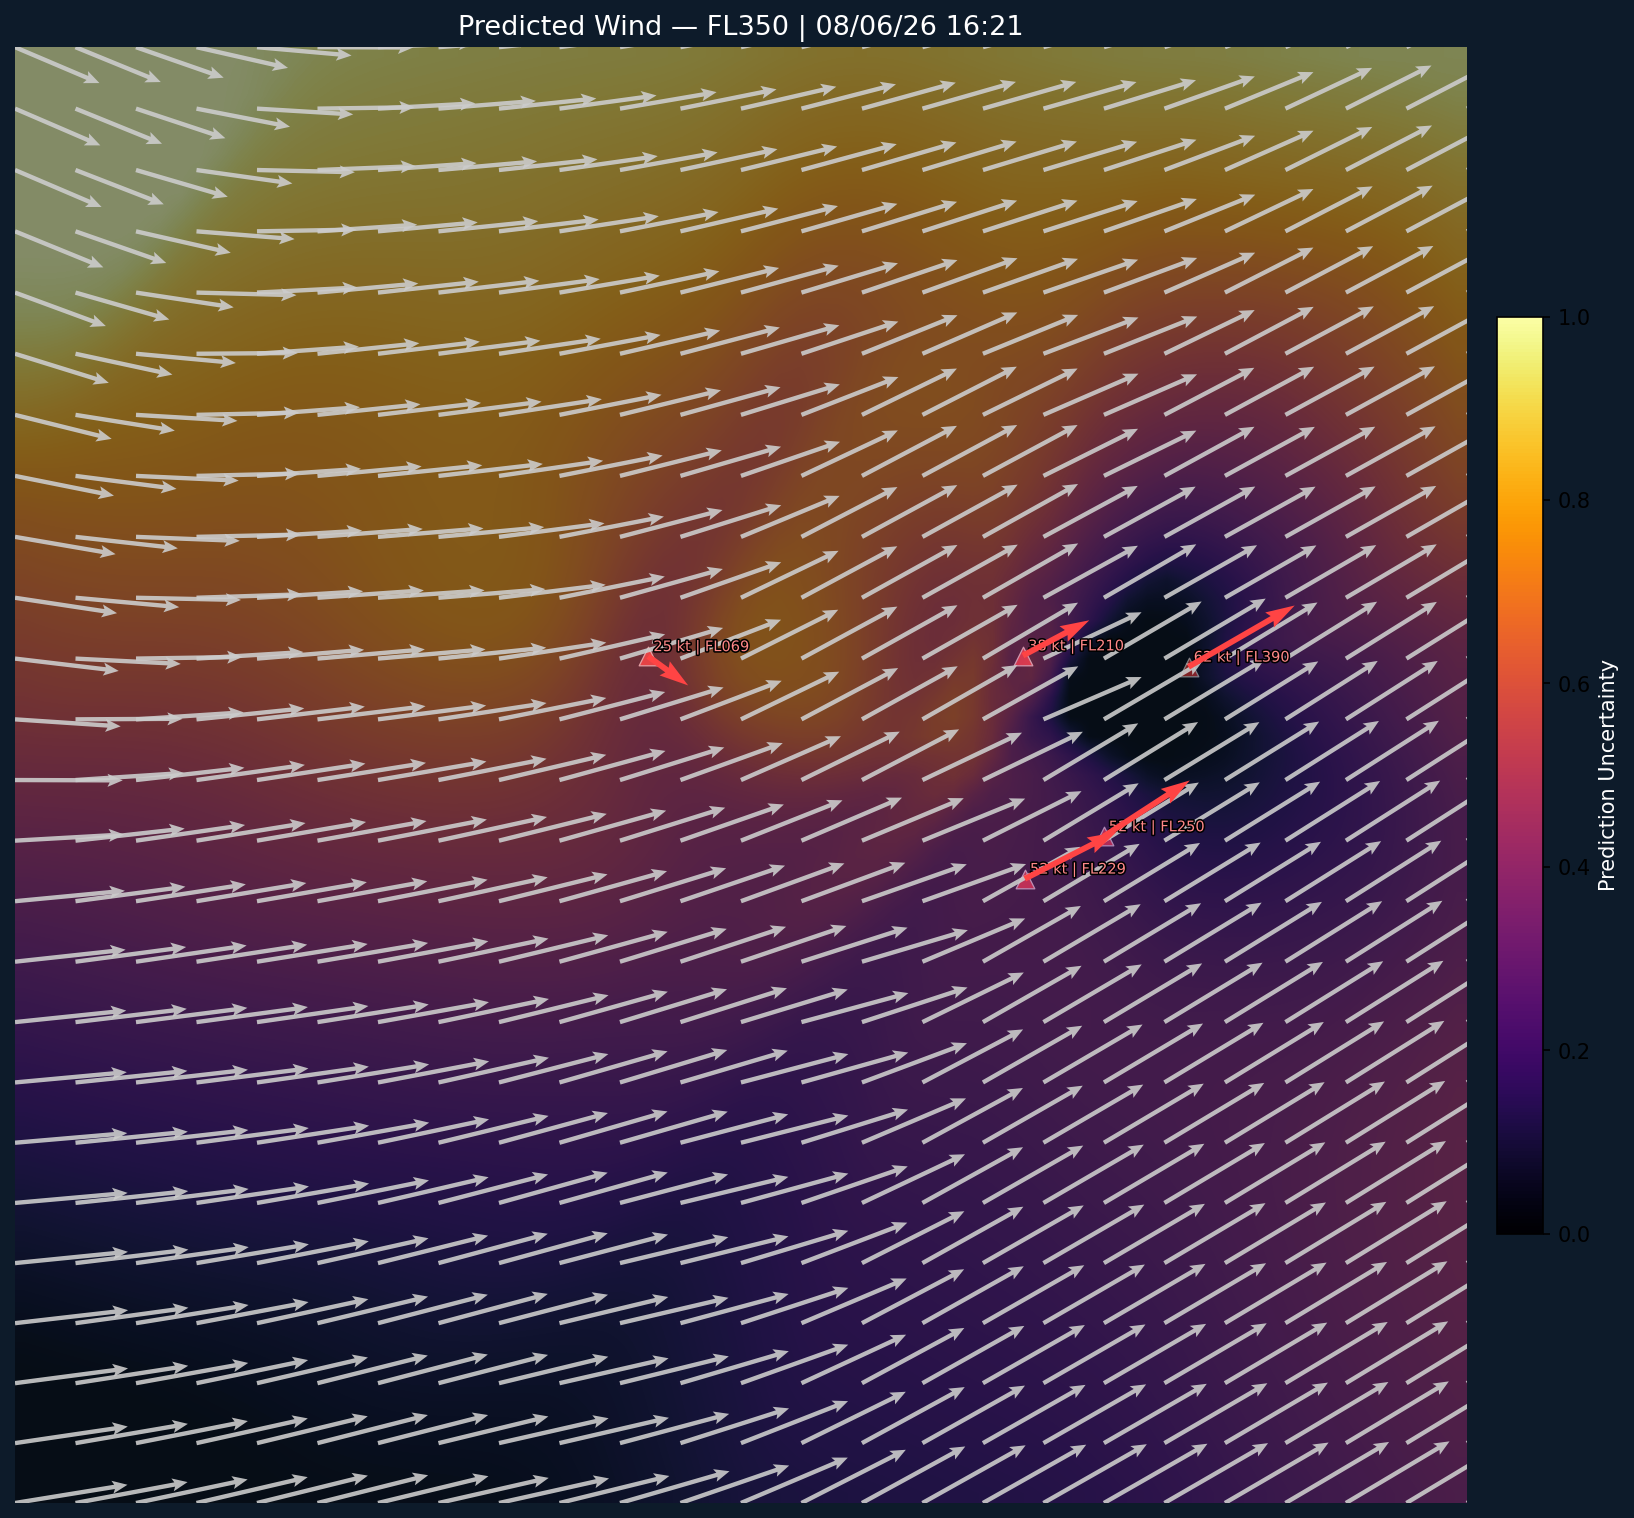
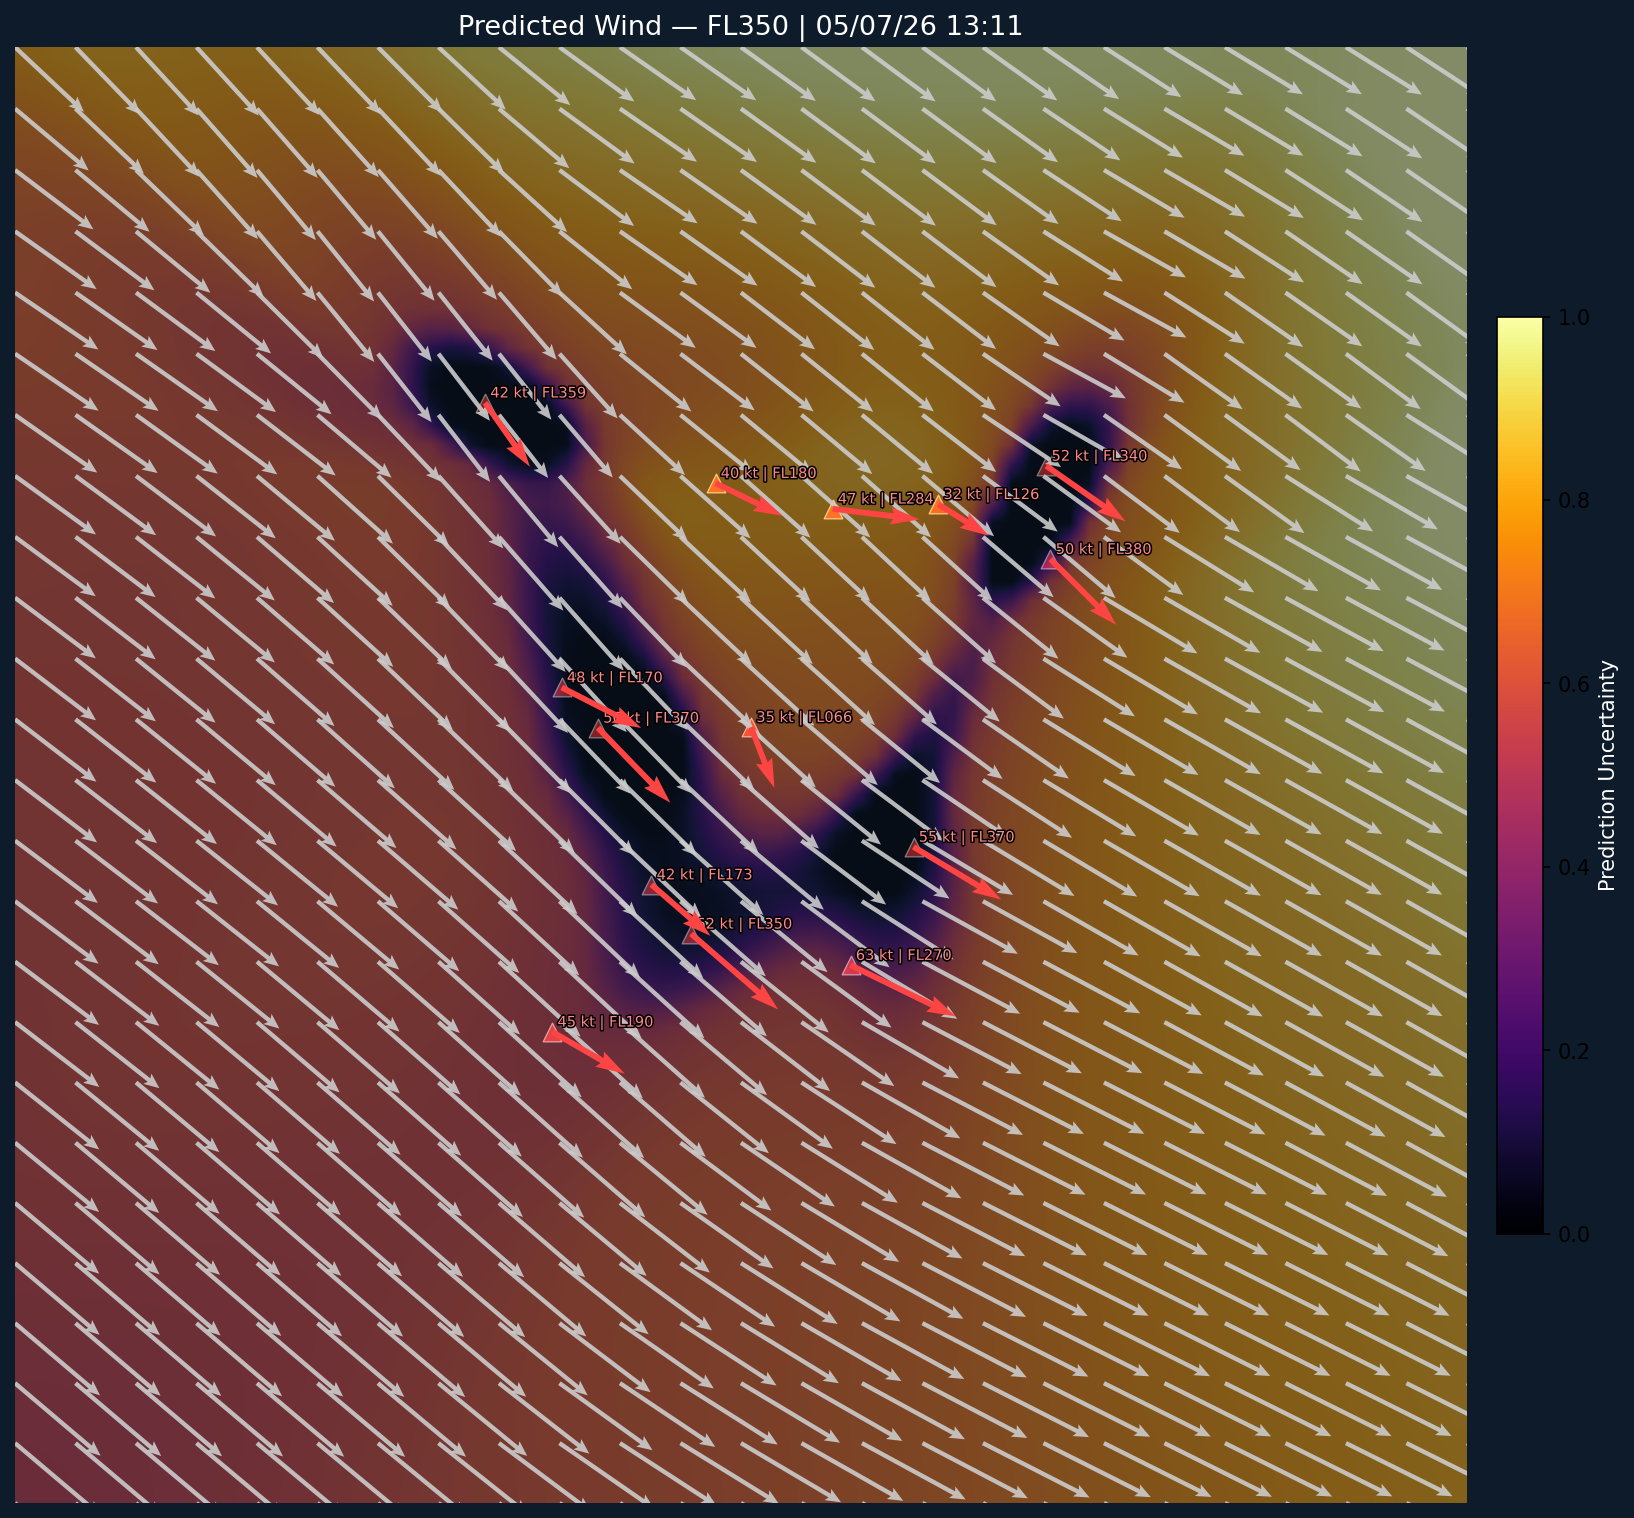
retrain with larger dataset!

diff --git a/wind_map/preprocess.py b/wind_map/preprocess.py
@@ -26,8 +26,8 @@ CENTRE_LAT = 51.071066
 CENTRE_LON = -1.042441
 
 MAX_ALT_FT = 50_000.0
-WIND_SPEED_MEAN = 35.08990871088307  # computed by convert_db.py
-WIND_SPEED_STD = 23.082372317152036    # computed by convert_db.py
+WIND_SPEED_MEAN = 34.95125809377175  # computed by convert_db.py
+WIND_SPEED_STD = 21.849448514436578  # computed by convert_db.py
 MIN_AIRCRAFT = 2
 
 # Half-width of the service area in degrees (~70km radius)